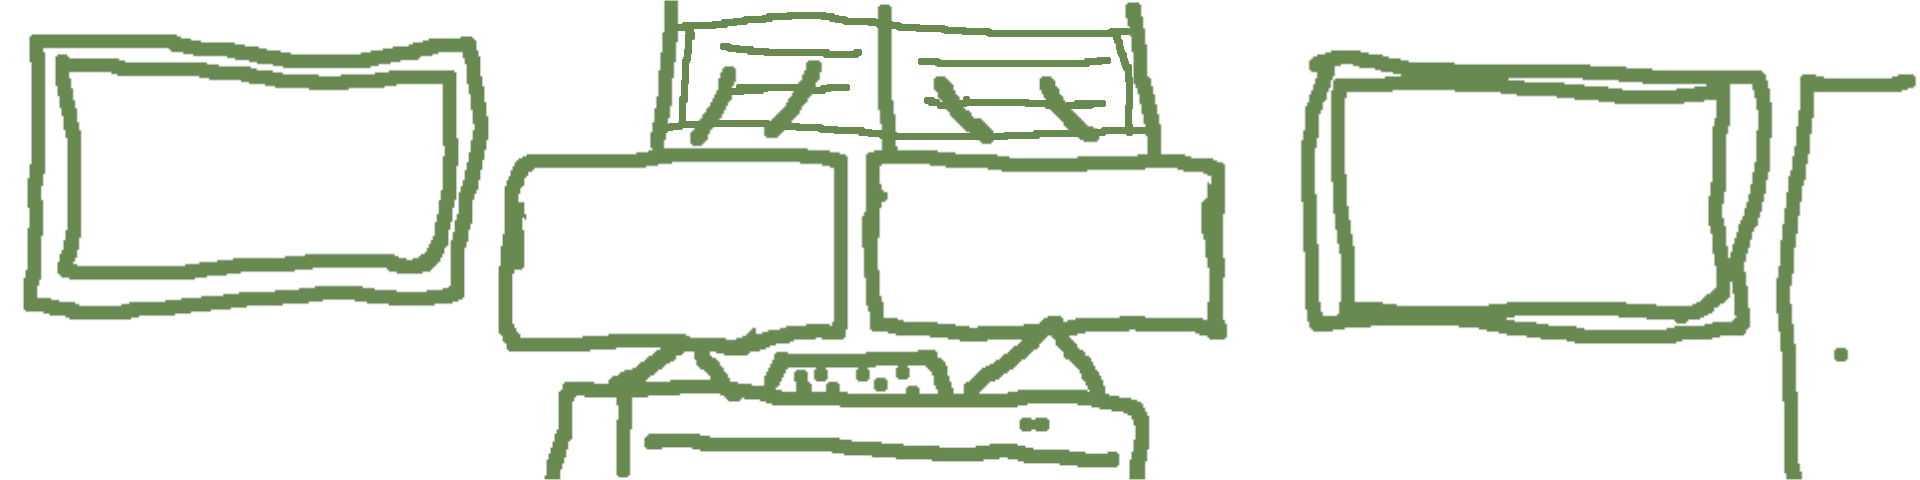
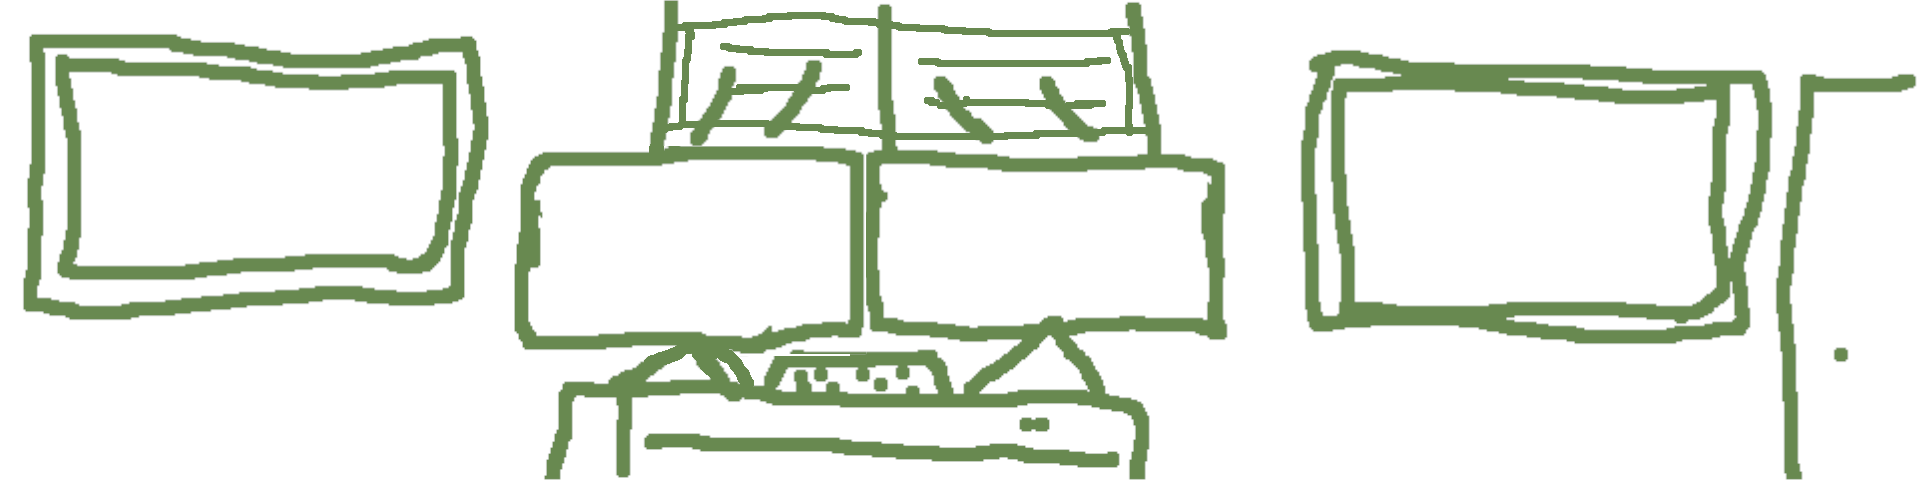
0:48

Changed region(s): [[0.25, 0.2812, 0.4688, 0.8125]]

diff --git a/Scripts/Objects/Camera2d.cs b/Scripts/Objects/Camera2d.cs
@@ -12,13 +12,15 @@ public partial class Camera2d : Camera2D
     private bool _ratonEnR = false;
 
     // Velocidad del Fondo
-    private float _velocidadFondo = 188.0f;
+    [Export] public float _velocidadFondo = 222.0f;
+    [Export] public float _velocidadExtra =2.5f;
+    [Export] public float _limiteCamara =720.0f;
 
     public override void _Ready()
     {
         FondoDia.xFont = 0;
         Position = Vector2.Zero;
-
+            // Referencias a las areas con Hover para controlar "la camara"
         _cameraL = GetNode<Area2D>("Camera_L"); 
         _cameraR = GetNode<Area2D>("Camera_R");
 
@@ -36,28 +38,36 @@ public partial class Camera2d : Camera2D
         }
     }
 
-    float ratonSegundo = 0.0f;
+    float ratonSegundo, ratonPrimero, posicionCam = 0.0f;
     public override void _Process(double delta)
     {
-
 		//Movimiento en deltaTime del fondo
-        if (_ratonEnL)
+        if (_ratonEnL && FondoDia.xFont < _limiteCamara)
         {
             FondoDia.xFont += _velocidadFondo * (float)delta;
-            
+            ratonPrimero += 0.1f;
+                // ratonPrimero/ratonSegundo son contadores independientes que al llegar a 3 cambian la velocidad, mientras que FondoDia.xFont es simplemente la variable x de FondoDia
+            if (_ratonEnL && ratonPrimero>=3f)
+		    {
+                // Se le suma la velocidad extra cuando lleba 3 segundos
+                FondoDia.xFont += _velocidadFondo * (float)delta + _velocidadExtra;
+		    }
         }
-        
-		if (_ratonEnR)
+		else
+		{
+			ratonPrimero = 0f;
+		}
+            // Lo mismo que el de arriba
+		if (_ratonEnR && FondoDia.xFont > -_limiteCamara)
         {
             FondoDia.xFont -= _velocidadFondo * (float)delta;
-            ratonSegundo += 0.01f;
-			GD.Print("AAAA:",ratonSegundo);
+            ratonSegundo += 0.1f;
+
+            if (_ratonEnR && ratonSegundo>=3f)
+		    {
+                FondoDia.xFont -= _velocidadFondo * (float)delta + _velocidadExtra;
+		    }
         }
-		else if (_ratonEnR && ratonSegundo>=3f)
-		{
-			GD.Print("Eeeepa:",ratonSegundo);
-			
-		}
 		else
 		{
 			ratonSegundo = 0f;

diff --git a/Scripts/Objects/Webcam.cs b/Scripts/Objects/Webcam.cs
@@ -1,0 +1,46 @@
+using Godot;
+
+public partial class Webcam : Sprite2D
+{
+    [Export] public Texture2D TexturaA;
+    [Export] public Texture2D TexturaB;
+
+    // Tirmpo de intercambio
+    [Export] public float Intervalo = 1.5f;
+
+    private bool _mostrandoA = true;
+    private Timer _timer;
+
+    public override void _Ready()
+    {
+        // 1. Nos aseguramos de empezar con la textura A
+        if (TexturaA != null) Texture = TexturaA;
+
+        // 2. Creamos el temporizador por código
+        _timer = new Timer();
+        _timer.WaitTime = Intervalo; // Le pasamos tu variable
+        _timer.OneShot = false;      // Que se repita infinitamente
+        _timer.Autostart = true;     // Que empiece solo al cargar la escena
+        
+        // 3. Conectamos el temporizador a una función
+        _timer.Timeout += CambiarTextura;
+        
+        // 4. Lo añadimos al nodo
+        AddChild(_timer);
+    }
+
+    private void CambiarTextura()
+    {
+        // Invertimos el estado
+        _mostrandoA = !_mostrandoA;
+
+        if (_mostrandoA)
+        {
+            Texture = TexturaA;
+        }
+        else
+        {
+            Texture = TexturaB;
+        }
+    }
+}
